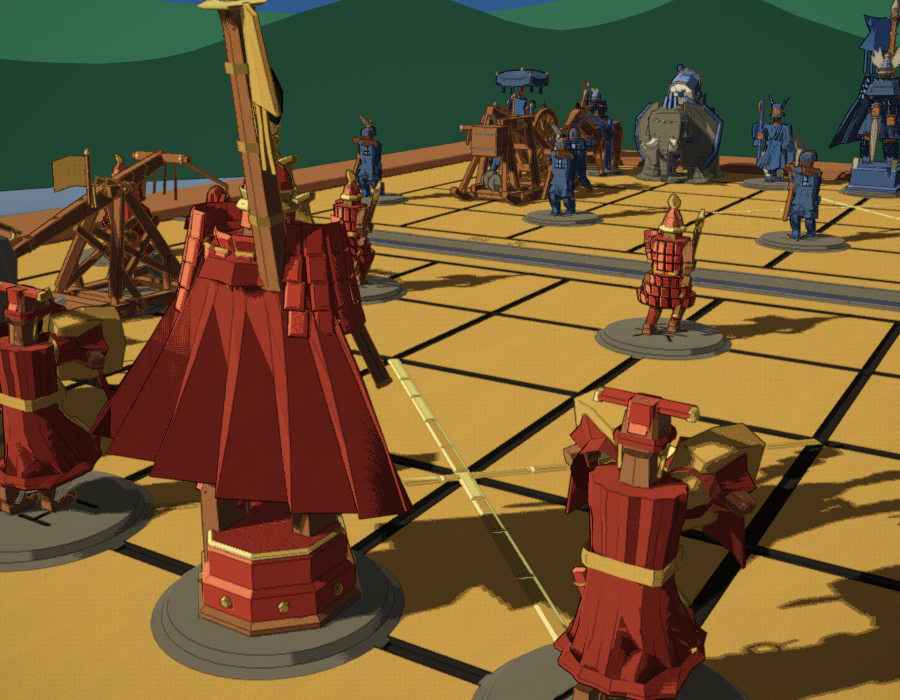
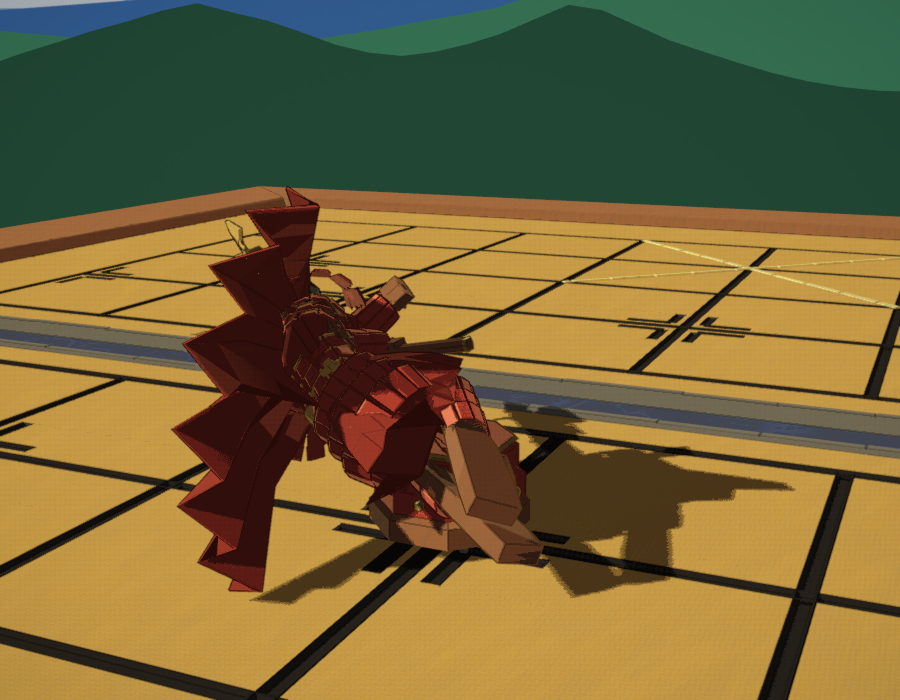
Restore the cast to its documented height ladder; pin the general's dais
THE LADDER. ARCHITECTURE states 0.66 (soldier) to 1.32 (general); the shipped
cast measured 0.542 to 0.964. Nobody decided that — it fell out of the rescale
pass and the table was never brought back to spec. Both ends are now exactly on
spec at 0.660 and 1.320.

It is not cosmetic. Move duration is linear in scale at fixed cadence, because
gait phase comes from ground covered, so a 兵 now crosses a square in 2.11s
against 2.57s — and every ratio is untouched, since scale is a pure root
multiplier: same bob, same steps per square, same statures per second.

What stopped the MIDDLE of the ladder is worth recording. The Chu elephant is the
deepest silhouette relative to its own origin in the cast at reachZ 0.848; a
proportional x1.22 takes it to 1.04 and it covers the next intersection. Capped
at x1.10, and the existing 8%-clearance rule between declared heights then caps
the chariot and horse beneath it. So the ends are on spec and the middle sits
5-13% low, and buying the rest means making the elephant shallower — a change in
its builder, not in the table. Written up in proportions.ts rather than left to
be rediscovered.

Worst reach 0.488 -> 0.571 (X) and 0.848 -> 0.932 (Z), both still under 1.0.
Zero same-army silhouette collisions; taper is scale-invariant so those values
are unchanged. Lowest vertex still exactly on the plinth top. Board still 200.5k
triangles, 32 meshes, 64 draw calls.

THE DAIS. general.ts bound the command platform to the root BONE, which is where
[…]

diff --git a/src/characters/proportions.ts b/src/characters/proportions.ts
@@ -100,20 +100,24 @@
  * along-rank reach from 0.85 to 1.04 and it starts covering the next
  * intersection, so the increase is spent where there is room for it:
  *
- *   | family                       | factor | what stops it                  |
- *   |------------------------------|--------|--------------------------------|
- *   | foot (兵 卒 仕 士)            | 1.218  | nothing — reach 0.24 at worst  |
- *   | 帥 將 on his dais            | 1.370  | nothing — reach 0.51 at worst  |
- *   | 砲 crew + trebuchet          | 1.170  | reachZ 0.90                    |
- *   | 傌 horse, 俥 chariot          | 1.13 / 1.12 | reachZ 0.87 / 0.92        |
- *   | 相 elephant                  | 1.100  | reachZ 0.93 — the binding one  |
+ *   | family                | factor | what stops it                         |
+ *   |-----------------------|--------|---------------------------------------|
+ *   | 兵 卒 conscript        | 1.218  | nothing — worst reach 0.18            |
+ *   | 仕 士 guard            | 1.218  | nothing — worst reach 0.29            |
+ *   | 帥 將 on his dais      | 1.370  | nothing — worst reach 0.51            |
+ *   | 砲 trebuchet + crew    | 1.170  | reachZ 0.90                           |
+ *   | 俥 chariot            | 1.080  | reachZ 0.89, and the 8% height step   |
+ *   | 傌 horse              | 1.058  | the 8% height step under the 俥        |
+ *   | 相 elephant           | 1.100  | reachZ 0.93 — the binding constraint  |
  *
- * So the ladder's two ends are on spec and its middle is 6-10% below where a
+ * So the ladder's two ends are on spec and its middle sits 5-13% below where a
  * proportional restoration would put it. The elephant is what stops it: it is
- * the deepest silhouette in the cast relative to its own origin, and its reach
- * is the first thing that would cover a neighbour's intersection. Buying the
- * rest of the ladder means making the elephant shallower, which is a change to
- * `units/elephant.ts`, not to this table.
+ * the deepest silhouette in the cast relative to its own origin, so its reach
+ * is the first thing that would cover a neighbour's intersection. It caps the
+ * top of the beast-and-vehicle band, and the rule that every declared height
+ * must be 8% clear of every other then caps the 俥 and the 傌 beneath it.
+ * Buying the rest of the ladder means making the elephant shallower, which is
+ * a change to `units/elephant.ts`, not to this table.
  *
  * SCALE AND HEIGHT ARE STILL NOT THE SAME KNOB
  * --------------------------------------------

diff --git a/src/characters/units/general.ts b/src/characters/units/general.ts
@@ -291,6 +291,10 @@ function buildGeneral(ctx: UnitBuildContext): PartGroup {
  * low. Octagonal rather than round because a lathe at eight facets gives eight
  * flat planes, and a quantised ramp puts each of them in a different band; a
  * cylinder would give one band all the way round and read as a drum.
+ *
+ * The `'root'` bone hints below are for material grouping only: the caller runs
+ * the whole group through `pinStatic`, which rebinds every piece of it to the
+ * unit root so no clip can move it. See the note at the call site.
  */
 function hanDais(ctx: UnitBuildContext, h: number, top: number): PartGroup {
   const P = ctx.parts;
@@ -360,6 +364,9 @@ function hanDais(ctx: UnitBuildContext, h: number, top: number): PartGroup {
  * the top. Square in plan, so from any angle its outline has corners where the
  * Han dais has facets — and the cleats put four small verticals at the base of
  * a figure whose Han counterpart has none.
+ *
+ * As with `hanDais`, the `'root'` bone hints are for material grouping only —
+ * `pinStatic` at the call site rebinds the whole group to the unit root.
  */
 function chuPlinth(ctx: UnitBuildContext, h: number, top: number): PartGroup {
   const P = ctx.parts;

diff --git a/src/characters/units/README.md b/src/characters/units/README.md
@@ -98,7 +98,8 @@ interface Part {
   boneHint: BoneName;             // its anchor in the skeleton
   name?: string;
   rigid?: boolean;                // 100% weight to boneHint
-  mountBone?: string;             // rigid on a mount bone instead
+  mountBone?: string;             // rigid on a mount bone instead, or
+                                  // STATIC_BONE for furniture (see §3)
   allow?: BoneName[];             // extra bones allowed to influence it
   noSilk?: boolean;               // opt out of the silk-weave shadow wash
 }
@@ -194,6 +195,16 @@ You never call the skinner. The factory does, and `boneHint` controls it:
   cloak wants `pelvis`).
 - **`mountBone: 'horse.legFL02'`** → rigid on a mount bone. Geometry still in
   rig space; the factory handles the rest.
+- **`mountBone: STATIC_BONE`** (or `pinStatic(group)`) → pinned to the **unit
+  root** instead of to the skeleton, so no clip, IK pass or contact correction
+  can move it. This is for *furniture the figure stands on*, not for anything it
+  wears: the 帥's command dais is the case it exists for. Bound to `root` — the
+  obvious choice, and the wrong one — it followed the bone every clip writes its
+  root translation to, and the death collapse's 238 mm drop took the platform
+  under the board with the body. It still travels and turns with the piece,
+  because it hangs off the unit root; it just does not listen to the skeleton.
+  Costs no extra draw call: the geometry merges into the unit's skinned mesh as
+  usual, weighted to a bone that never moves.
 
 Measured deformation at a 90° bend, from `verify.ts` (1.00 = no loss):
 shoulder **0.879**, elbow **0.943**, hip **0.909**, knee **0.898**. If a part

diff --git a/ARCHITECTURE.md b/ARCHITECTURE.md
@@ -72,10 +72,17 @@ Arrows are the only permitted import directions. `render` never imports
 - What governs whether a piece hides its neighbour is **not** its bounding box
   but how far its silhouette reaches from its own intersection — a shape centred
   off its origin crowds one side twice as hard as the box size implies.
-  `verify.ts` therefore asserts `reachX < 1.0` and `reachZ < 1.0`. Across the
-  files every unit is inside its own square (`reachX ≤ 0.49`); along the ranks
-  the beast and vehicle units lean up to 0.85 forward, stopping short of the
-  next intersection, which reads as presence rather than as crowding.
+  `verify.ts` therefore asserts `reachX < 1.0` and `reachZ < 1.0`. Measured:
+  worst `reachX` is 0.57 (cannon) and worst `reachZ` is 0.93 (Chu elephant), so
+  every unit is inside its own square across the files, and along the ranks the
+  beast and vehicle units lean forward without covering the next intersection —
+  presence rather than crowding.
+- The ladder above is a contract and `proportions.ts` records how far it can be
+  honoured. Both ENDS are exactly on spec; the middle sits 5–13% below a
+  proportional restoration, because the Chu elephant is the deepest silhouette
+  relative to its own origin in the cast and a proportional increase would take
+  its `reachZ` past 1.0. Buying the rest means making that unit shallower, which
+  is a change in its builder, not in the table.
 - Time is seconds; angles are radians.
 
 ## Rendering pipeline order
